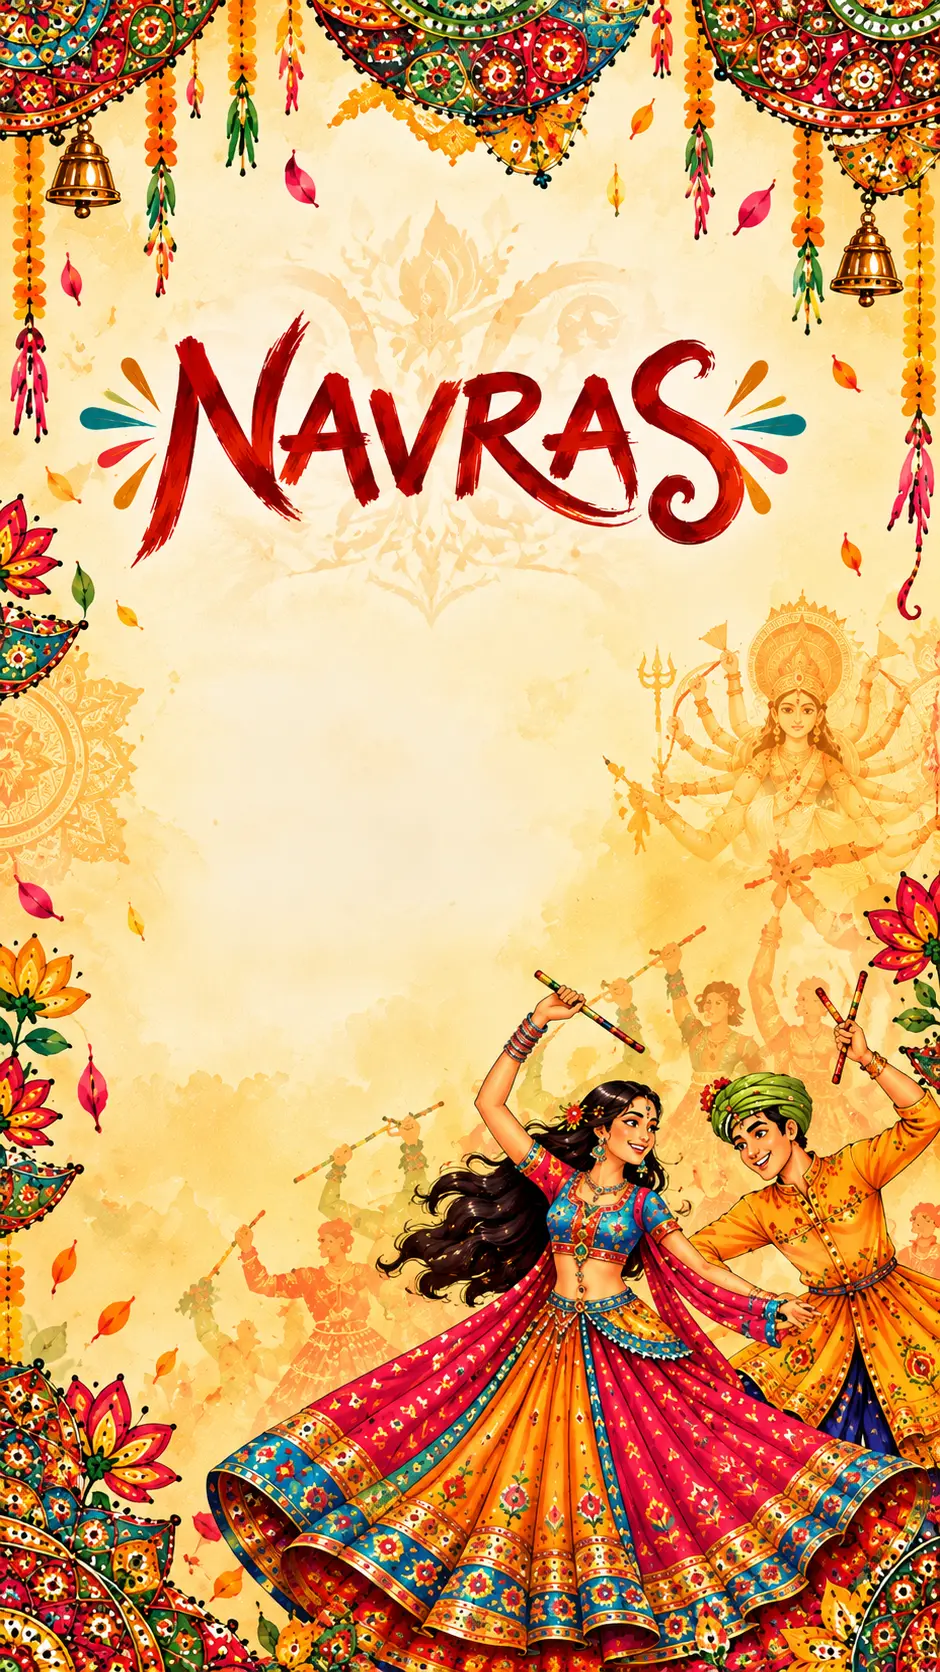
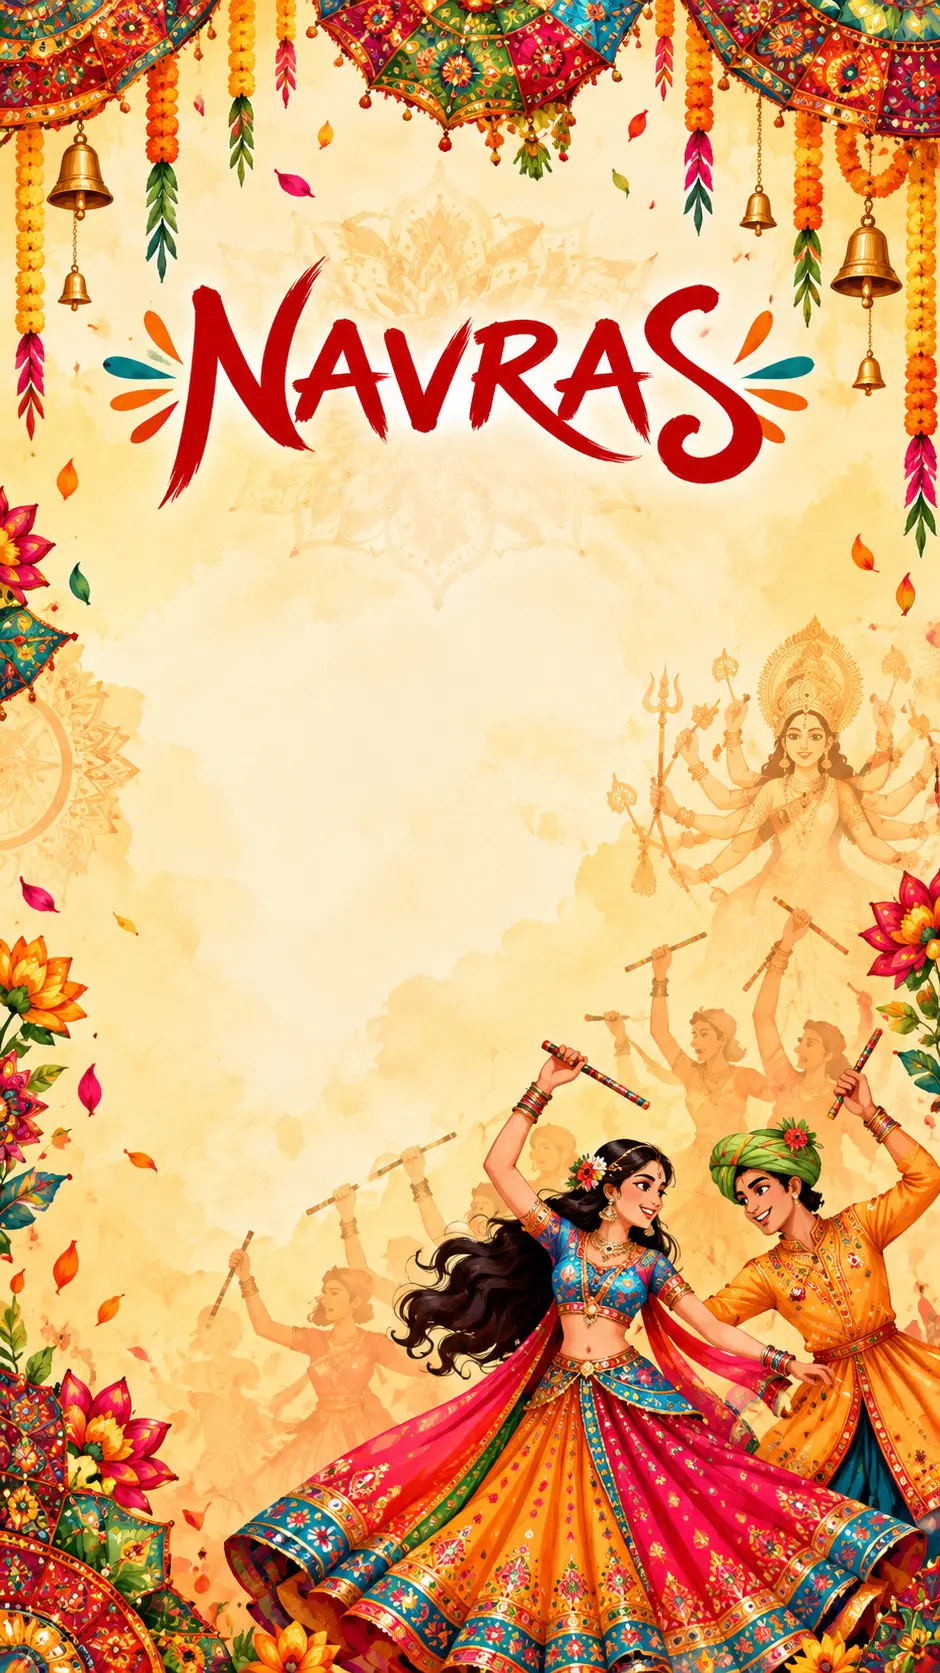
orientation

diff --git a/app/globals.css b/app/globals.css
@@ -507,6 +507,7 @@ img, picture {
     height: auto;
     aspect-ratio: 830 / 1792;
     object-fit: cover;
+    object-position: 37% center;
   }
   .hero-overlay-details {
     display: none !important;
@@ -632,7 +633,7 @@ img, picture {
 .hero-mobile-overlay {
   position: absolute;
   top: 37%;
-  left: 43%;
+  left: 47%;
   transform: translateX(-50%);
   width: min(92%, 350px);
   display: flex;
